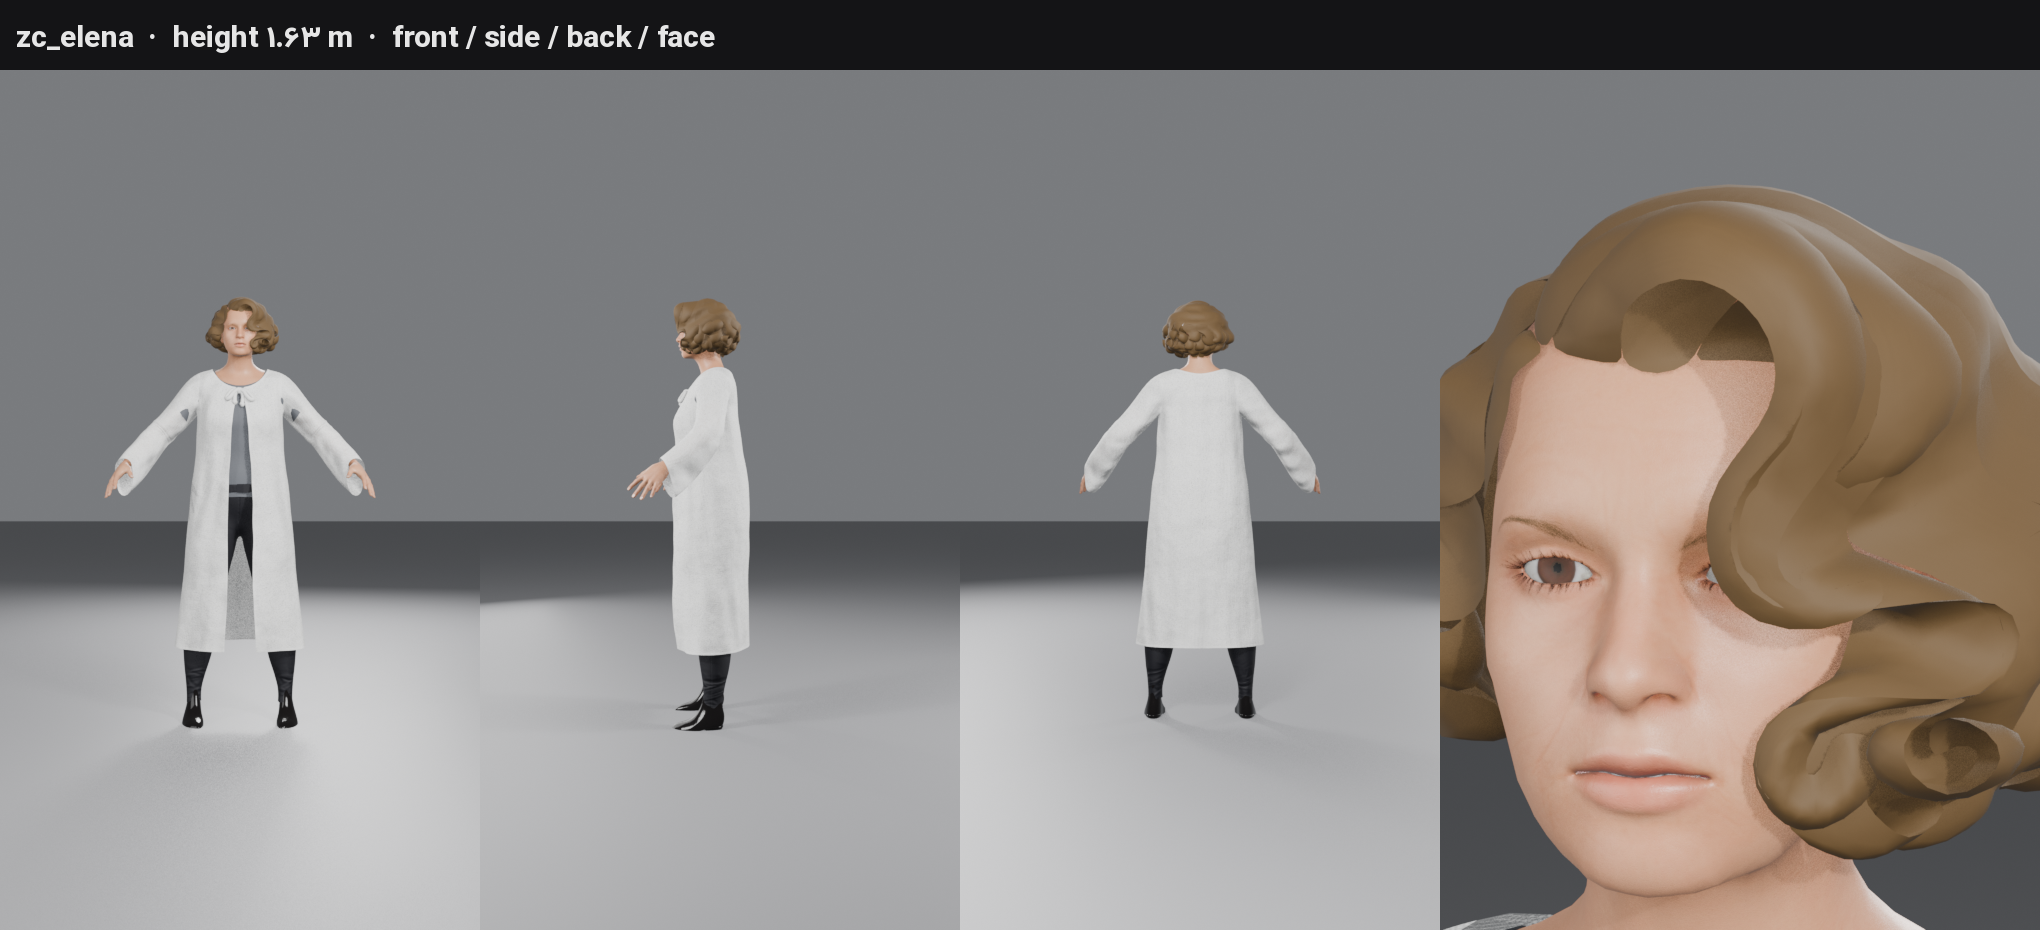
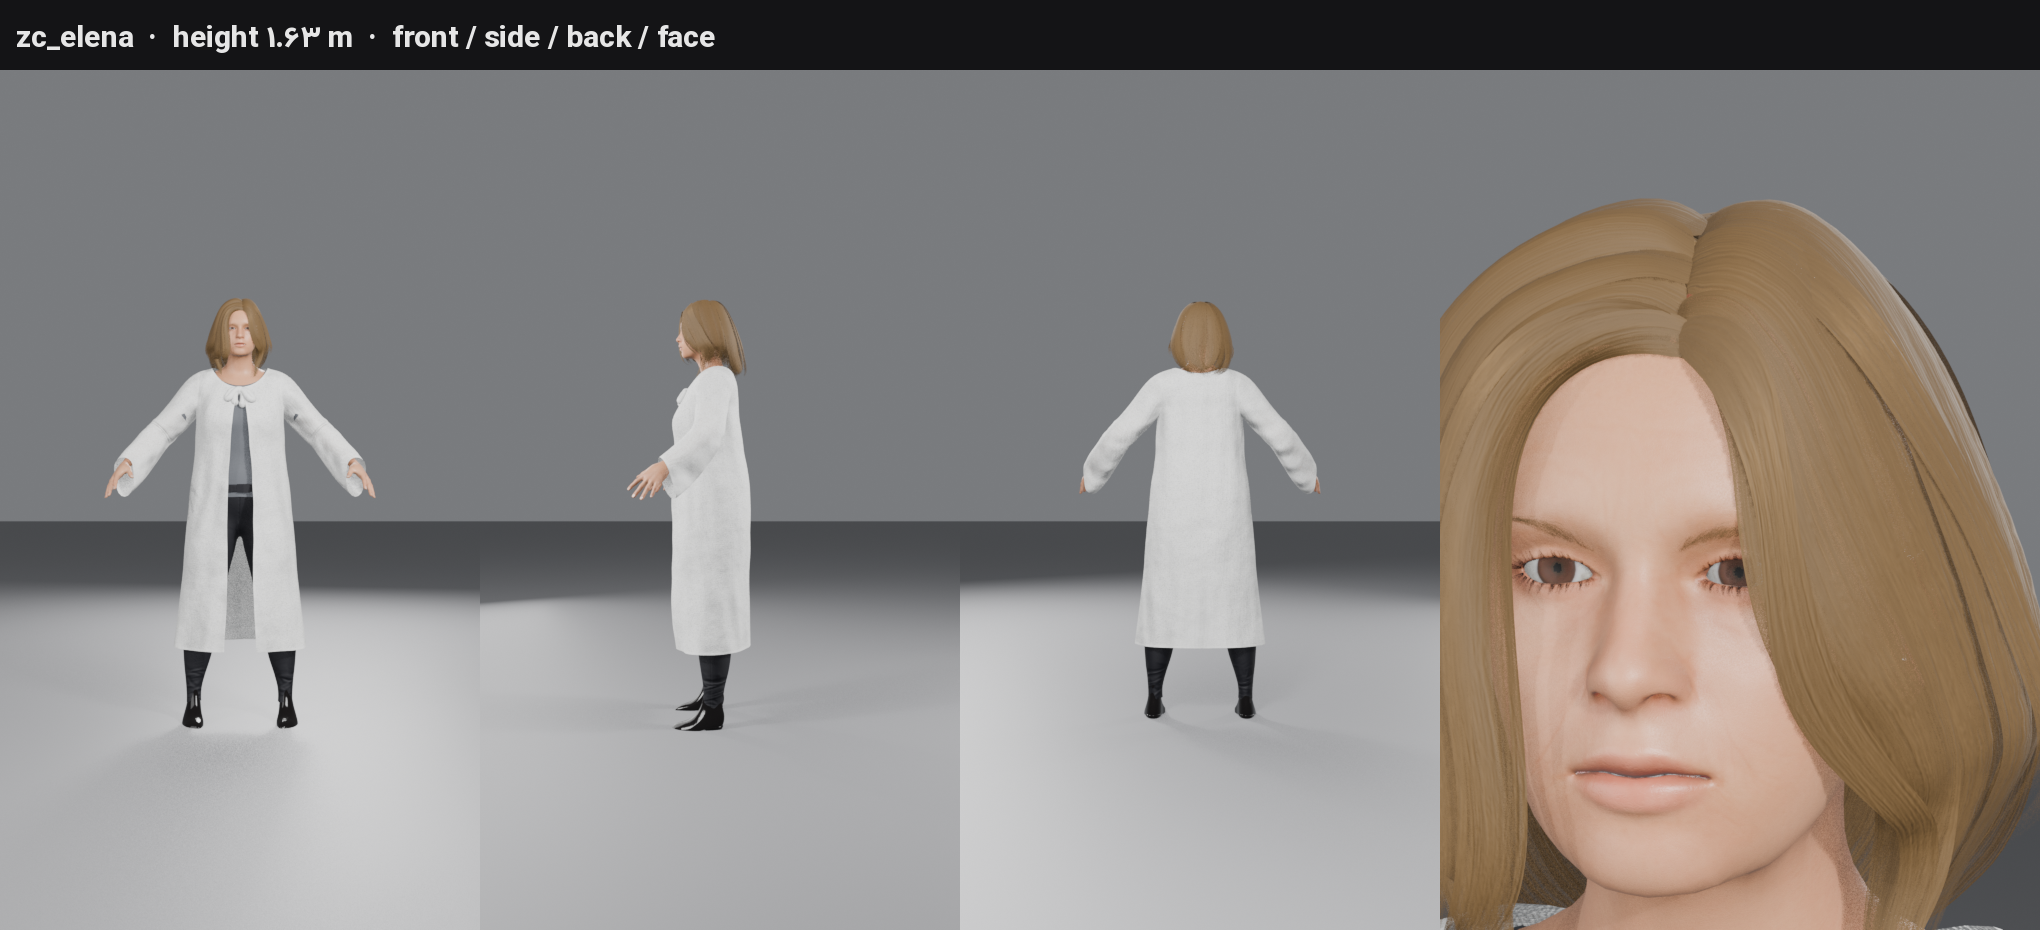
Zombie Center: Elena sheet OK; Arin scar landmarks on real skin, shorter nape, less sheen
Claude-Session: https://claude.ai/code/session_0195jcA6aNEjGkEhpvKfuJLv

diff --git a/blender/zombie_center/zc_hair.py b/blender/zombie_center/zc_hair.py
@@ -71,7 +71,7 @@ def centre_part_hair(ch, n=20000, seed=1, colour=(0.012, 0.010, 0.010), name=Non
 
     def root_ok(p):      # no sideburn / ear-side roots: those strands hang beside the face
         fy = (p.y - front_y) / max(1e-6, (back_y - front_y))
-        return on_scalp(p) and (abs(p.x - cx) < 0.055 or p.z > ear_z + 0.05 or fy > 0.68)
+        return on_scalp(p) and (abs(p.x - cx) < 0.055 or p.z > ear_z + 0.05 or (fy > 0.68 and p.z > ear_z - 0.01))
     faces = [f for f in bm.faces if root_ok(f.calc_center_median())]
     _darken_scalp(body, on_scalp)
     areas = [f.calc_area() for f in faces]
@@ -112,7 +112,7 @@ def centre_part_hair(ch, n=20000, seed=1, colour=(0.012, 0.010, 0.010), name=Non
         elif top_region:
             L = 0.07 + 0.015 * rnd.random()          # crown
         elif fy > 0.6:
-            L = 0.04 + 0.01 * rnd.random()           # back / nape
+            L = 0.028 + 0.008 * rnd.random()         # back / nape: short, tapered
         else:
             L = 0.022 + 0.008 * rnd.random()         # sides above the ears: short
         if fy < 0.35:
@@ -177,8 +177,8 @@ def centre_part_hair(ch, n=20000, seed=1, colour=(0.012, 0.010, 0.010), name=Non
     out = nt.nodes.new("ShaderNodeOutputMaterial")
     pb = nt.nodes.new("ShaderNodeBsdfPrincipled")     # EEVEE renders the hair BSDF brown: use Principled
     pb.inputs["Base Color"].default_value = (*colour, 1)
-    pb.inputs["Roughness"].default_value = 0.45
-    pb.inputs["Specular IOR Level"].default_value = 0.35
+    pb.inputs["Roughness"].default_value = 0.55
+    pb.inputs["Specular IOR Level"].default_value = 0.2
     nt.links.new(pb.outputs[0], out.inputs["Surface"])
     cv.materials.append(m)
     # follow the head

diff --git a/blender/zombie_center/zc_look.py b/blender/zombie_center/zc_look.py
@@ -51,8 +51,10 @@ def brow_scar(ch, side=+1):
     from mathutils.geometry import intersect_point_line
     body = ch.body
     pts, nrm = M.rest_positions(body)
-    top = max(p.z for p in pts)
-    head = [p for p in pts if p.z > top - 0.13]
+    g = body.vertex_groups["body"].index           # real skin only, not MakeHuman's hidden helper geometry
+    real = [pts[v.index] for v in body.data.vertices if any(e.group == g and e.weight > 0.5 for e in v.groups)]
+    top = max(p.z for p in real)
+    head = [p for p in real if p.z > top - 0.13]
     front = min(p.y for p in head)
     cx = sum(p.x for p in head) / len(head)
     bz = top - 0.105
